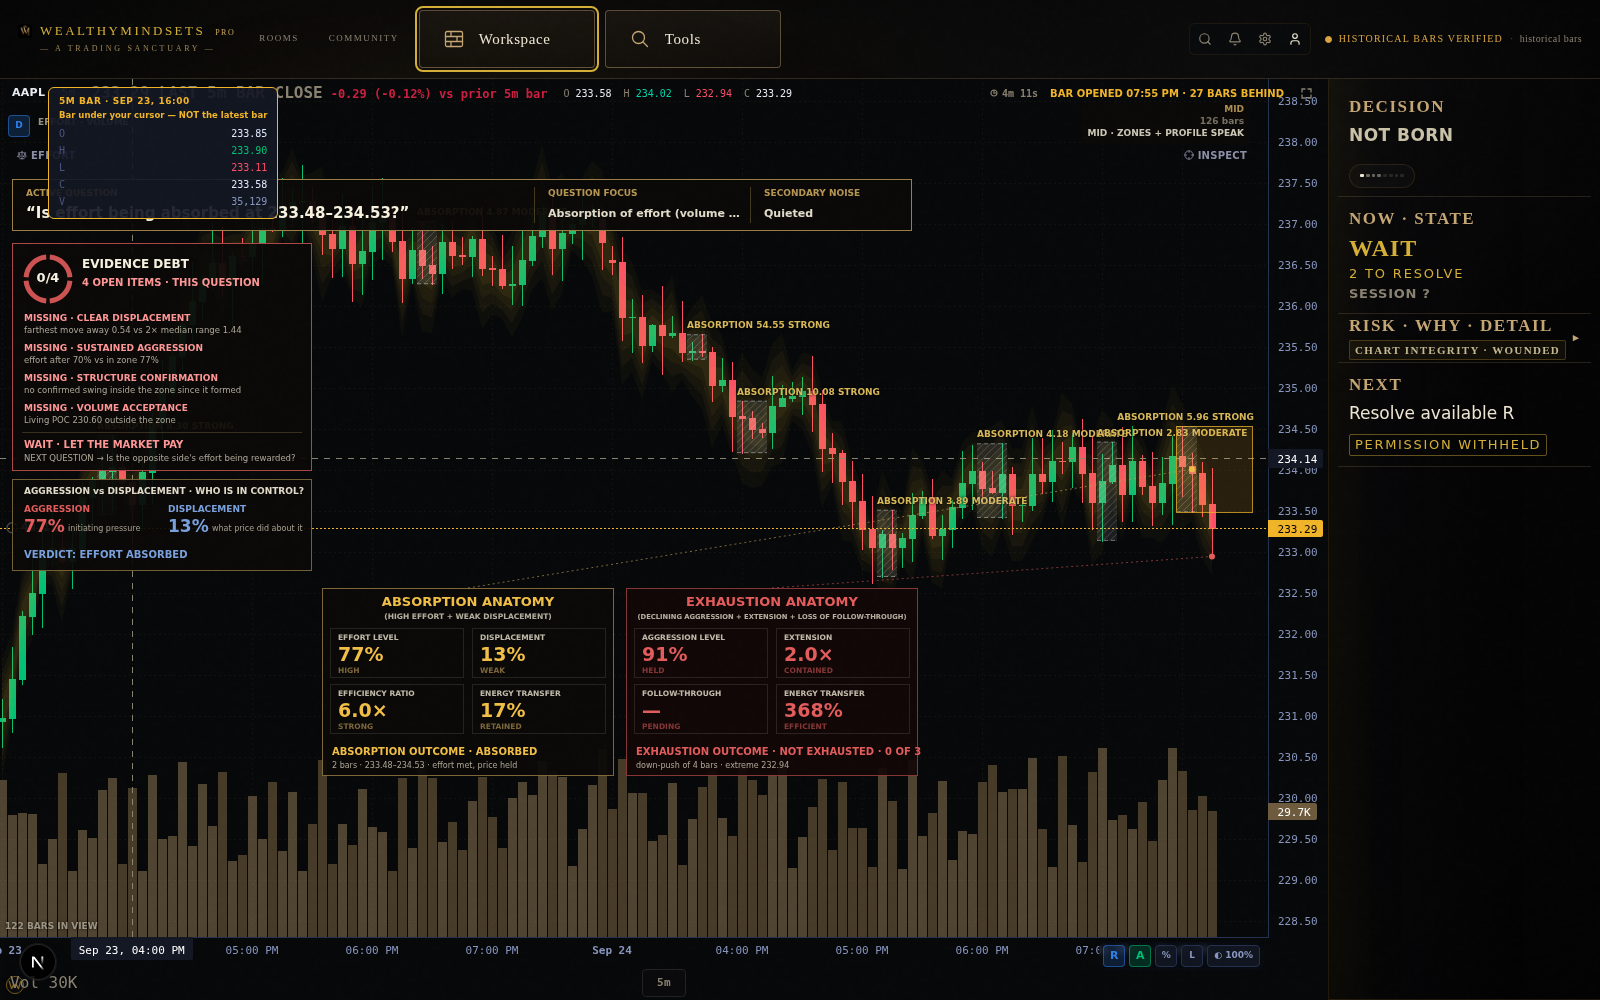
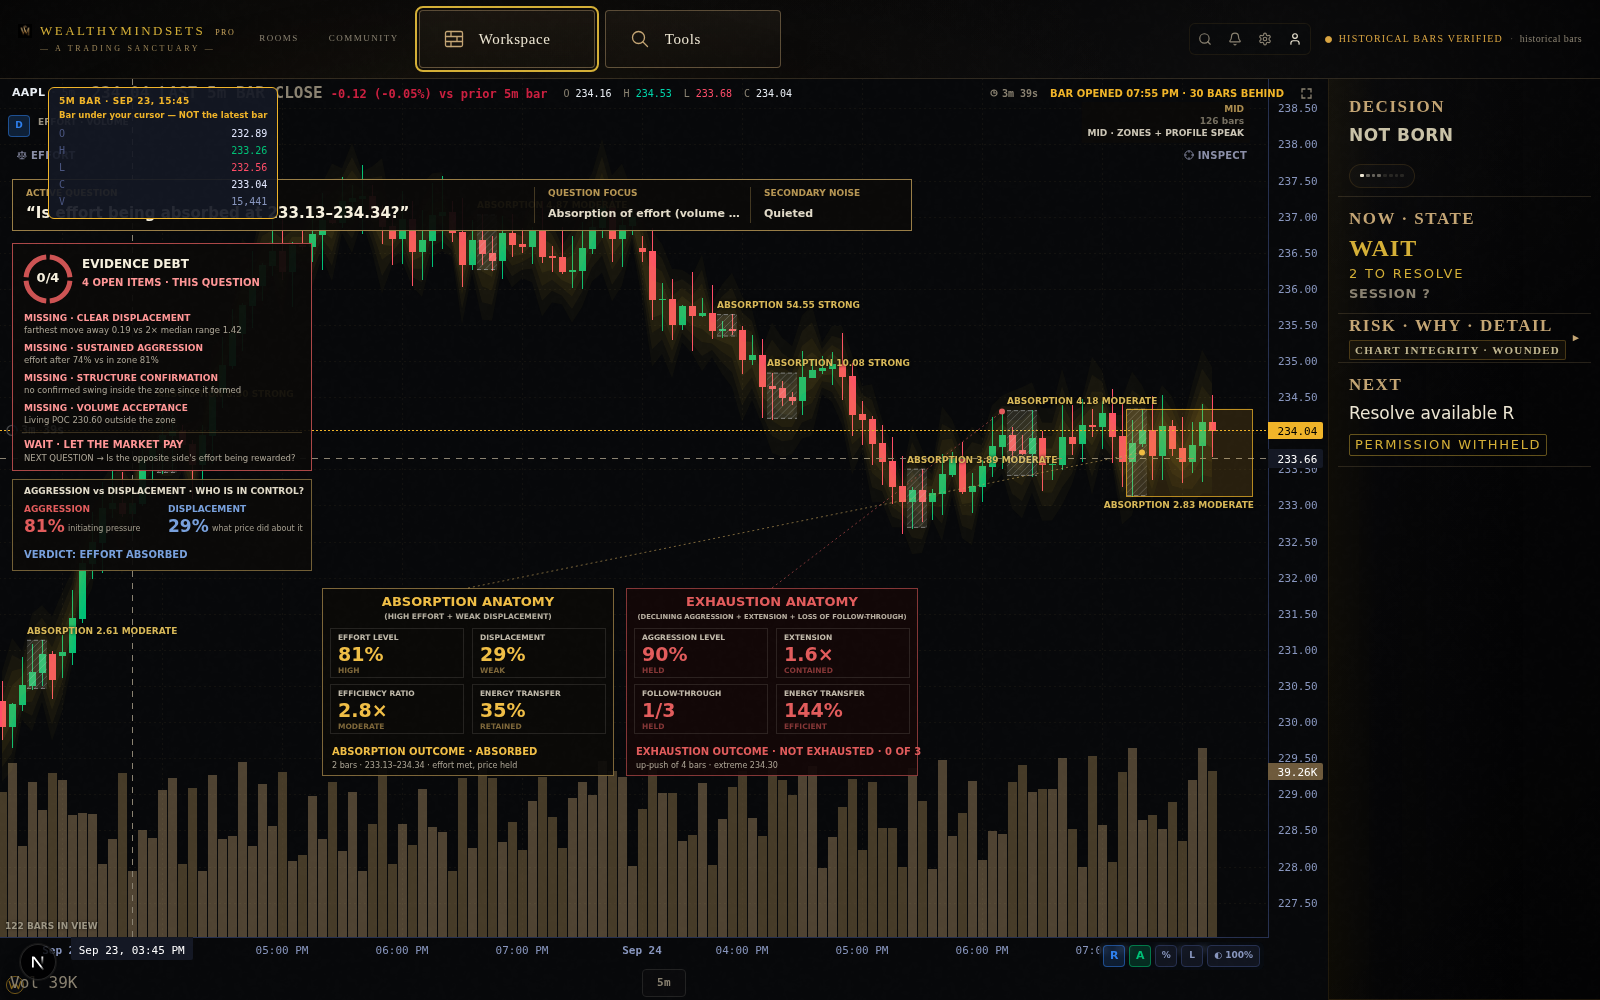
Absorption chips never print on one another
Neighbouring shelves smeared two readings into one line. Each chip now takes
the first free slot (above, below, stepped up); if none is free the shelf
still paints and its words wait. Receipt: ds.absorptionChips placed/total.

Claude-Session: https://claude.ai/code/session_01Gntm2WzCaW5uQMS2aMojoZ

diff --git a/src/components/chart/MainChart.tsx b/src/components/chart/MainChart.tsx
@@ -7877,6 +7877,8 @@ export function MainChart({ symbol, timeframe, setTimeframe, footprintType, foot
             }
 
             // ── ABSORPTION ZONE: pinned at the price the auction happened at.
+            const absorbChipRects: { x: number; y: number; w: number; h: number }[] = [];
+            let absorbChipsHidden = 0;
             for (const zone of anatomy.zones) {
               const x0r = ts.timeToCoordinate(zone.startTime as never);
               const x1r = ts.timeToCoordinate(zone.endTime as never);
@@ -7980,7 +7982,18 @@ export function MainChart({ symbol, timeframe, setTimeframe, footprintType, foot
               })();
               const plotRight = Math.max(4, W - axisW);
               const chipX = Math.min(Math.max(2, x0), Math.max(2, plotRight - chipW - 2));
-              const chipY = Math.max(2, yHi - chipH - 2);
+              // NO TWO CHIPS ON ONE ANOTHER. Neighbouring shelves printed
+              // "ABSORPTION 4.18 MOD…ABSORPTION 2.83" as one smear. Try above
+              // the shelf, then below it, then stepped further up; if every
+              // slot is taken the shelf still paints and only its words wait
+              // (Inspect on the shelf still reads it).
+              const hit = (y: number) => absorbChipRects.some(r =>
+                chipX < r.x + r.w + 4 && chipX + chipW + 4 > r.x && y < r.y + r.h + 1 && y + chipH + 1 > r.y);
+              const slots = [yHi - chipH - 2, yLo + 2, yHi - 2 * chipH - 4, yLo + chipH + 4, yHi - 3 * chipH - 6];
+              const freeY = slots.map(y => Math.max(2, y)).find(y => !hit(y));
+              if (freeY == null) { absorbChipsHidden++; continue; }
+              const chipY = freeY;
+              absorbChipRects.push({ x: chipX, y: chipY, w: chipW, h: chipH });
               if (desktopShelfInstrument) {
                 // Direct annotation, not another gold card. A restrained
                 // shadow protects legibility while the shelf remains the
@@ -8005,6 +8018,8 @@ export function MainChart({ symbol, timeframe, setTimeframe, footprintType, foot
                 ctx.fillText(chip, chipX + 6, chipY + chipH / 2 + 0.5);
               }
             }
+
+            ds.absorptionChips = `${absorbChipRects.length}/${absorbChipRects.length + absorbChipsHidden}`;
 
             // ── BASIS. Compact, always visible, never a vendor name.
             const basisTxt = BASIS_LABEL[anatomy.basis];
